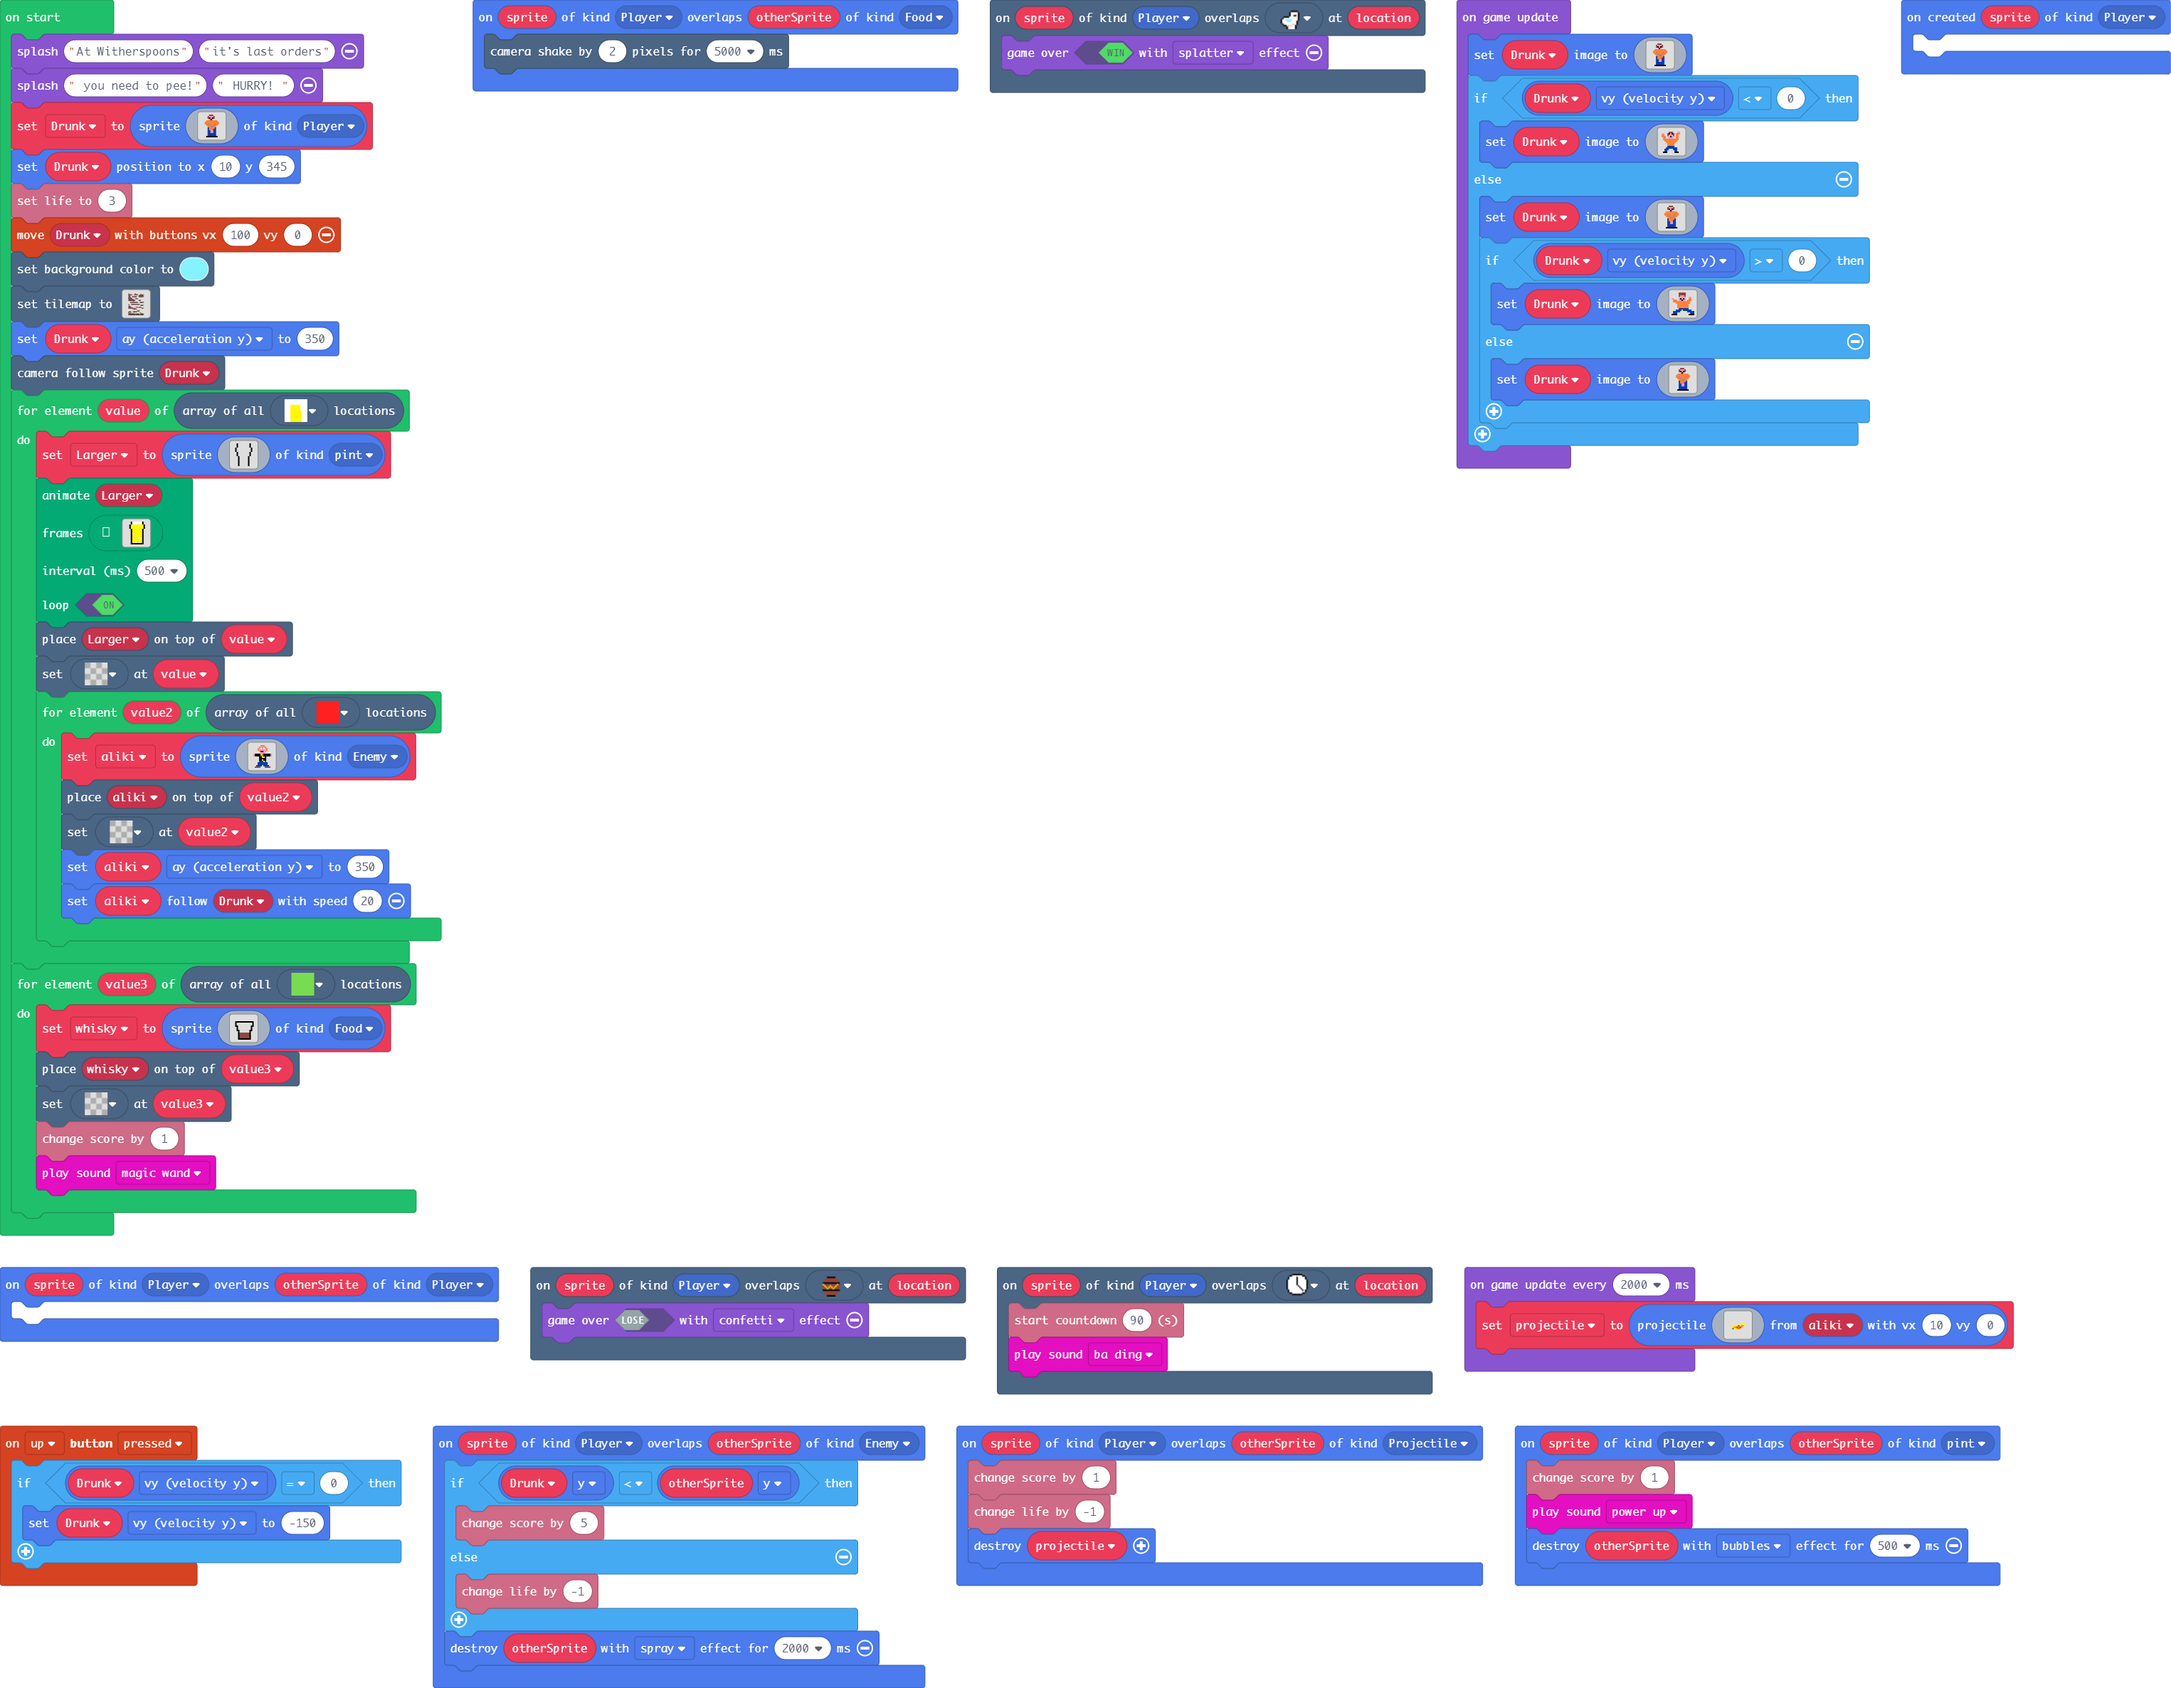
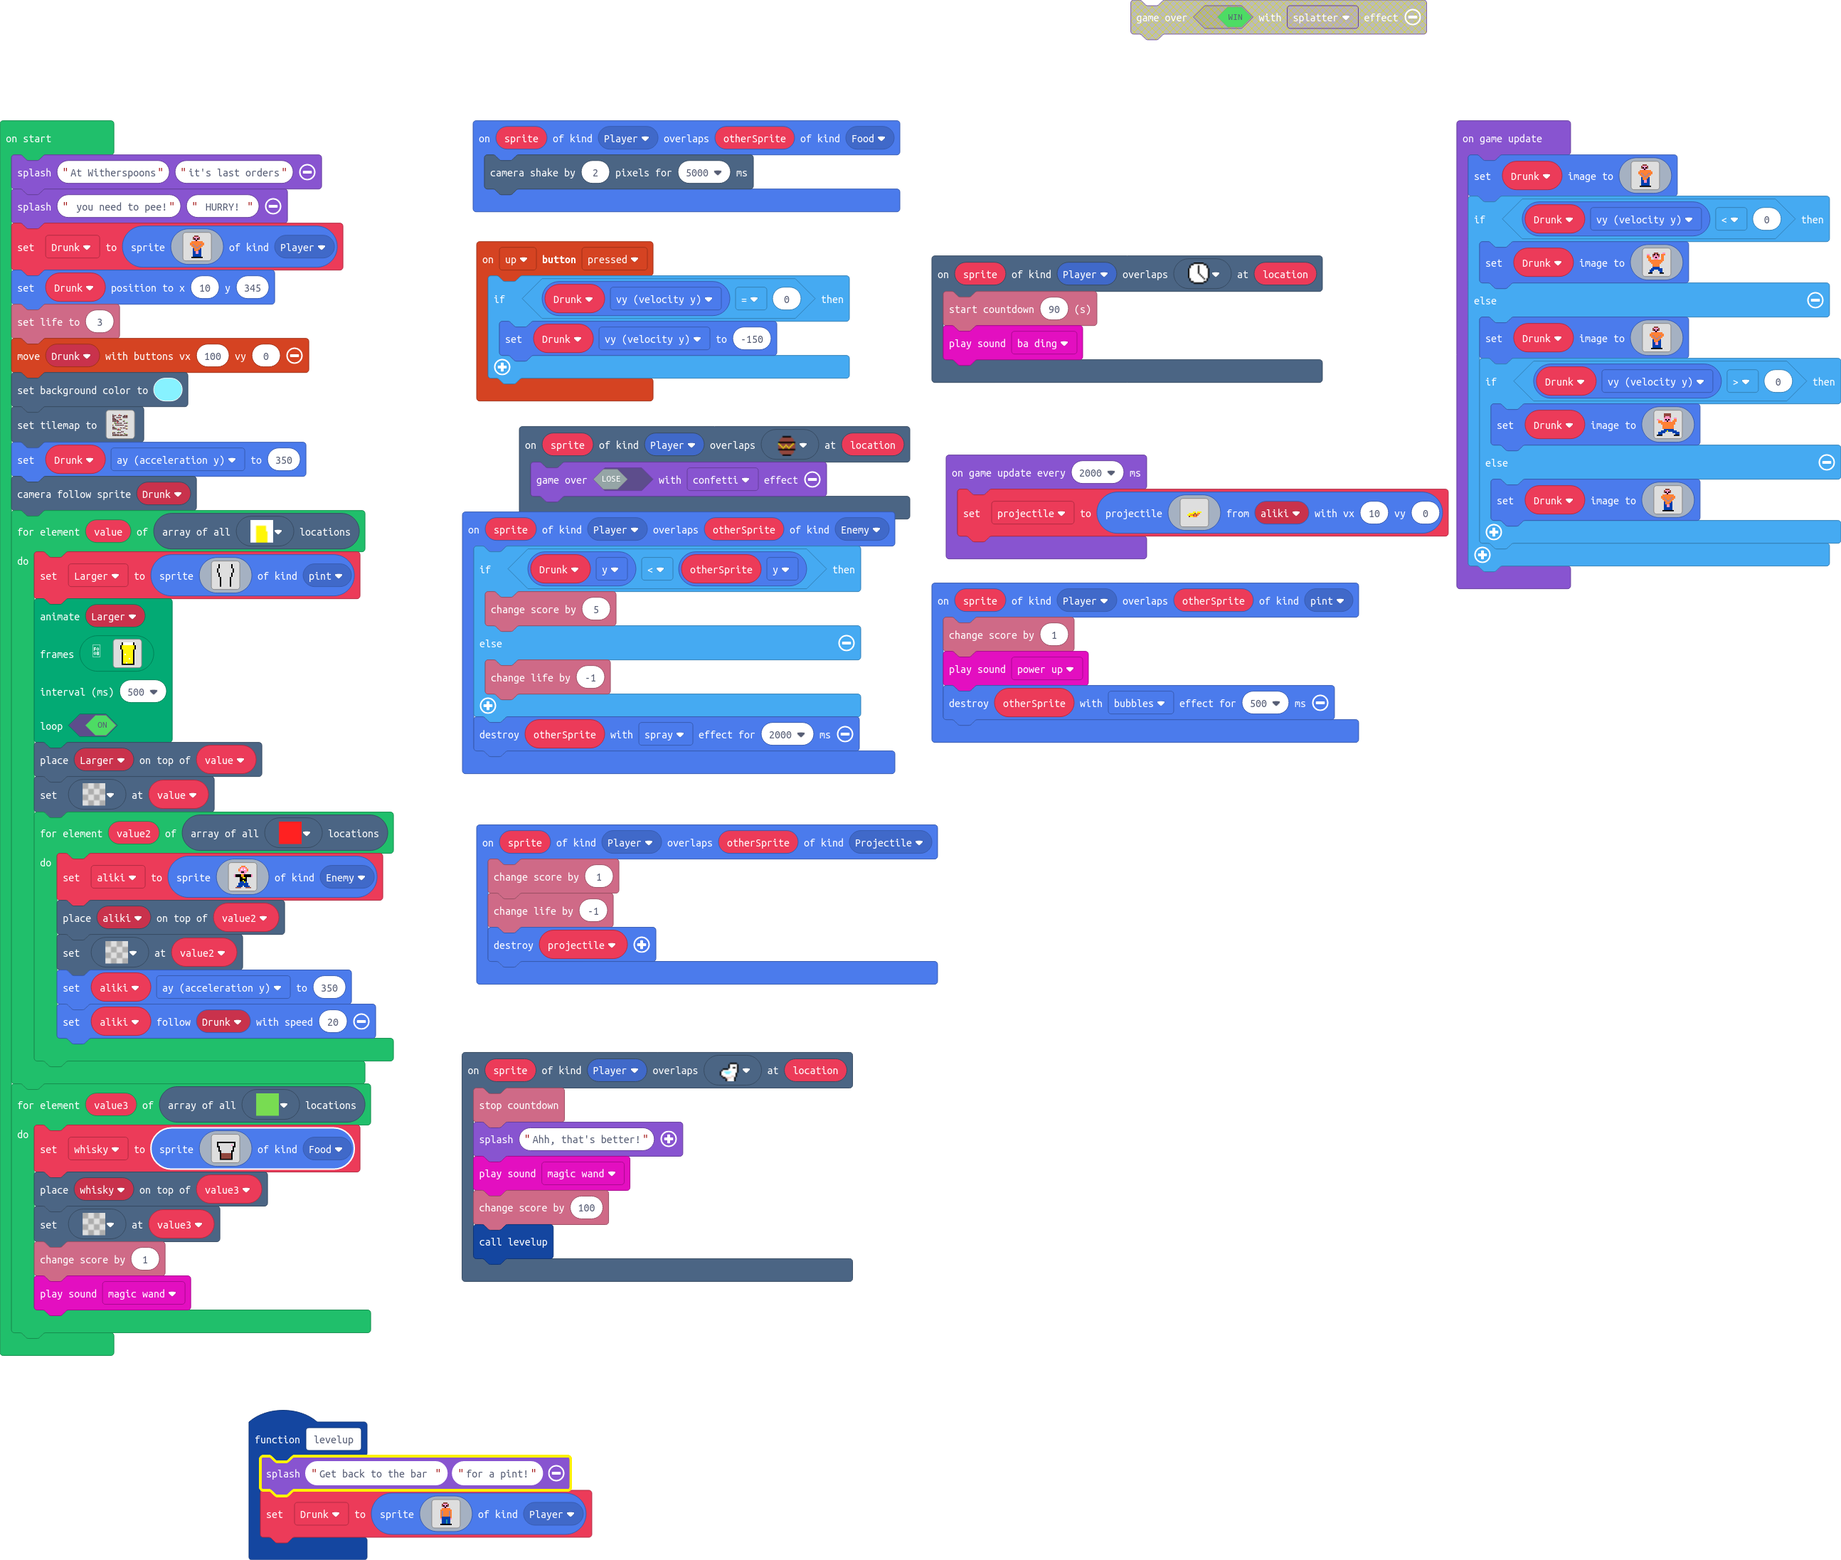
level2

diff --git a/main.ts b/main.ts
@@ -250,14 +250,15 @@ e e e e e e e e e e e e e e e f
 7 7 7 7 7 7 7 7 7 7 7 7 7 7 7 7 
 `
 }
-sprites.onCreated(SpriteKind.Player, function (sprite) {
-	
-})
 sprites.onOverlap(SpriteKind.Player, SpriteKind.Food, function (sprite, otherSprite) {
     scene.cameraShake(2, 5000)
 })
 scene.onOverlapTile(SpriteKind.Player, myTiles.tile4, function (sprite, location) {
-    game.over(true, effects.splatter)
+    info.stopCountdown()
+    game.splash("Ahh, that's better!")
+    music.magicWand.play()
+    info.changeScoreBy(100)
+    levelup()
 })
 sprites.onOverlap(SpriteKind.Player, SpriteKind.Projectile, function (sprite, otherSprite) {
     info.changeScoreBy(1)
@@ -272,15 +273,33 @@ sprites.onOverlap(SpriteKind.Player, SpriteKind.Enemy, function (sprite, otherSp
     }
     otherSprite.destroy(effects.spray, 2000)
 })
+function levelup () {
+    game.splash("Get back to the bar ", "for a pint!")
+    Drunk = sprites.create(img`
+. . . . . . e e e . . . . . . . 
+. . . . . e 3 3 3 e . . . . . . 
+. . . . . e f 3 f e . . . . . . 
+. . . . . . 3 f 3 . . . . . . . 
+. . . . . 4 4 4 4 4 4 . . . . . 
+. . . . 4 4 4 4 4 4 4 4 . . . . 
+. . . . 4 b 4 4 4 4 b 4 . . . . 
+. . . . 4 b 4 4 4 4 b 4 . . . . 
+. . . . 4 b 4 4 4 4 b 4 . . . . 
+. . . . 4 b 4 4 4 4 b 4 . . . . 
+. . . . 4 8 8 8 8 8 8 4 . . . . 
+. . . . 3 8 8 8 8 8 8 3 . . . . 
+. . . . . 8 8 8 6 8 8 . . . . . 
+. . . . . 8 8 8 6 8 8 . . . . . 
+. . . . . 8 8 8 6 8 8 . . . . . 
+. . . . f f f f f f f f . . . . 
+`, SpriteKind.Player)
+}
 scene.onOverlapTile(SpriteKind.Player, myTiles.tile8, function (sprite, location) {
     info.startCountdown(90)
     music.baDing.play()
 })
 scene.onOverlapTile(SpriteKind.Player, myTiles.tile7, function (sprite, location) {
     game.over(false, effects.confetti)
-})
-sprites.onOverlap(SpriteKind.Player, SpriteKind.Player, function (sprite, otherSprite) {
-	
 })
 controller.up.onEvent(ControllerButtonEvent.Pressed, function () {
     if (Drunk.vy == 0) {
@@ -532,7 +551,7 @@ for (let value3 of tiles.getTilesByType(myTiles.tile12)) {
 . . . . . . . . . . . . . . . . 
 . . f f f f f f f f f f f f f . 
 . . f . . . . . . . . . . . f . 
-. . f . . . . . . . . . . . f . 
+. . f . . . . . . . . . 3 . f . 
 . . f f . . . . . . . . . f f . 
 . . . f . . . . . . . . . f . . 
 . . . f . . . . . . . . . f . . 
